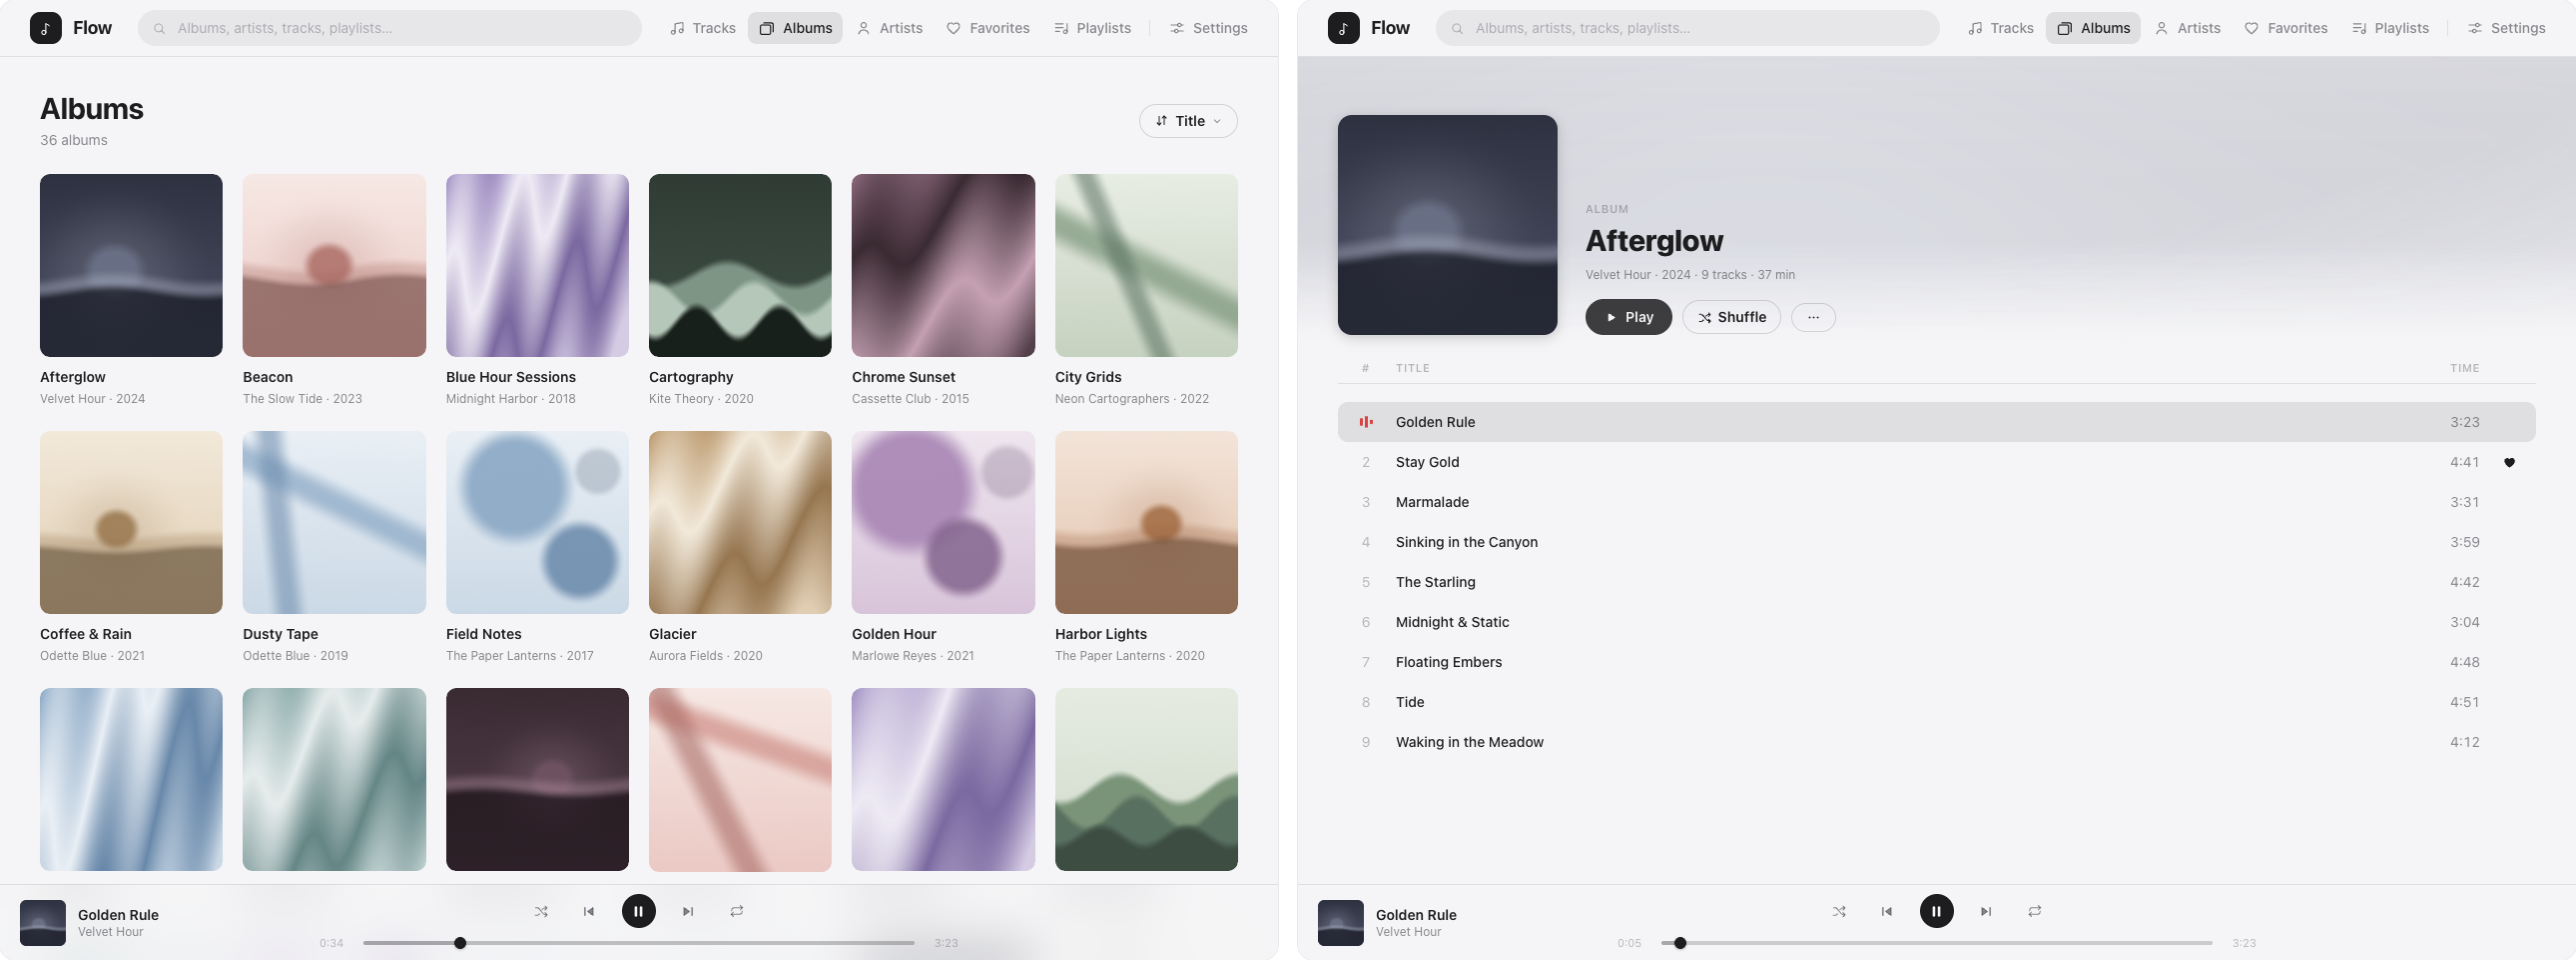
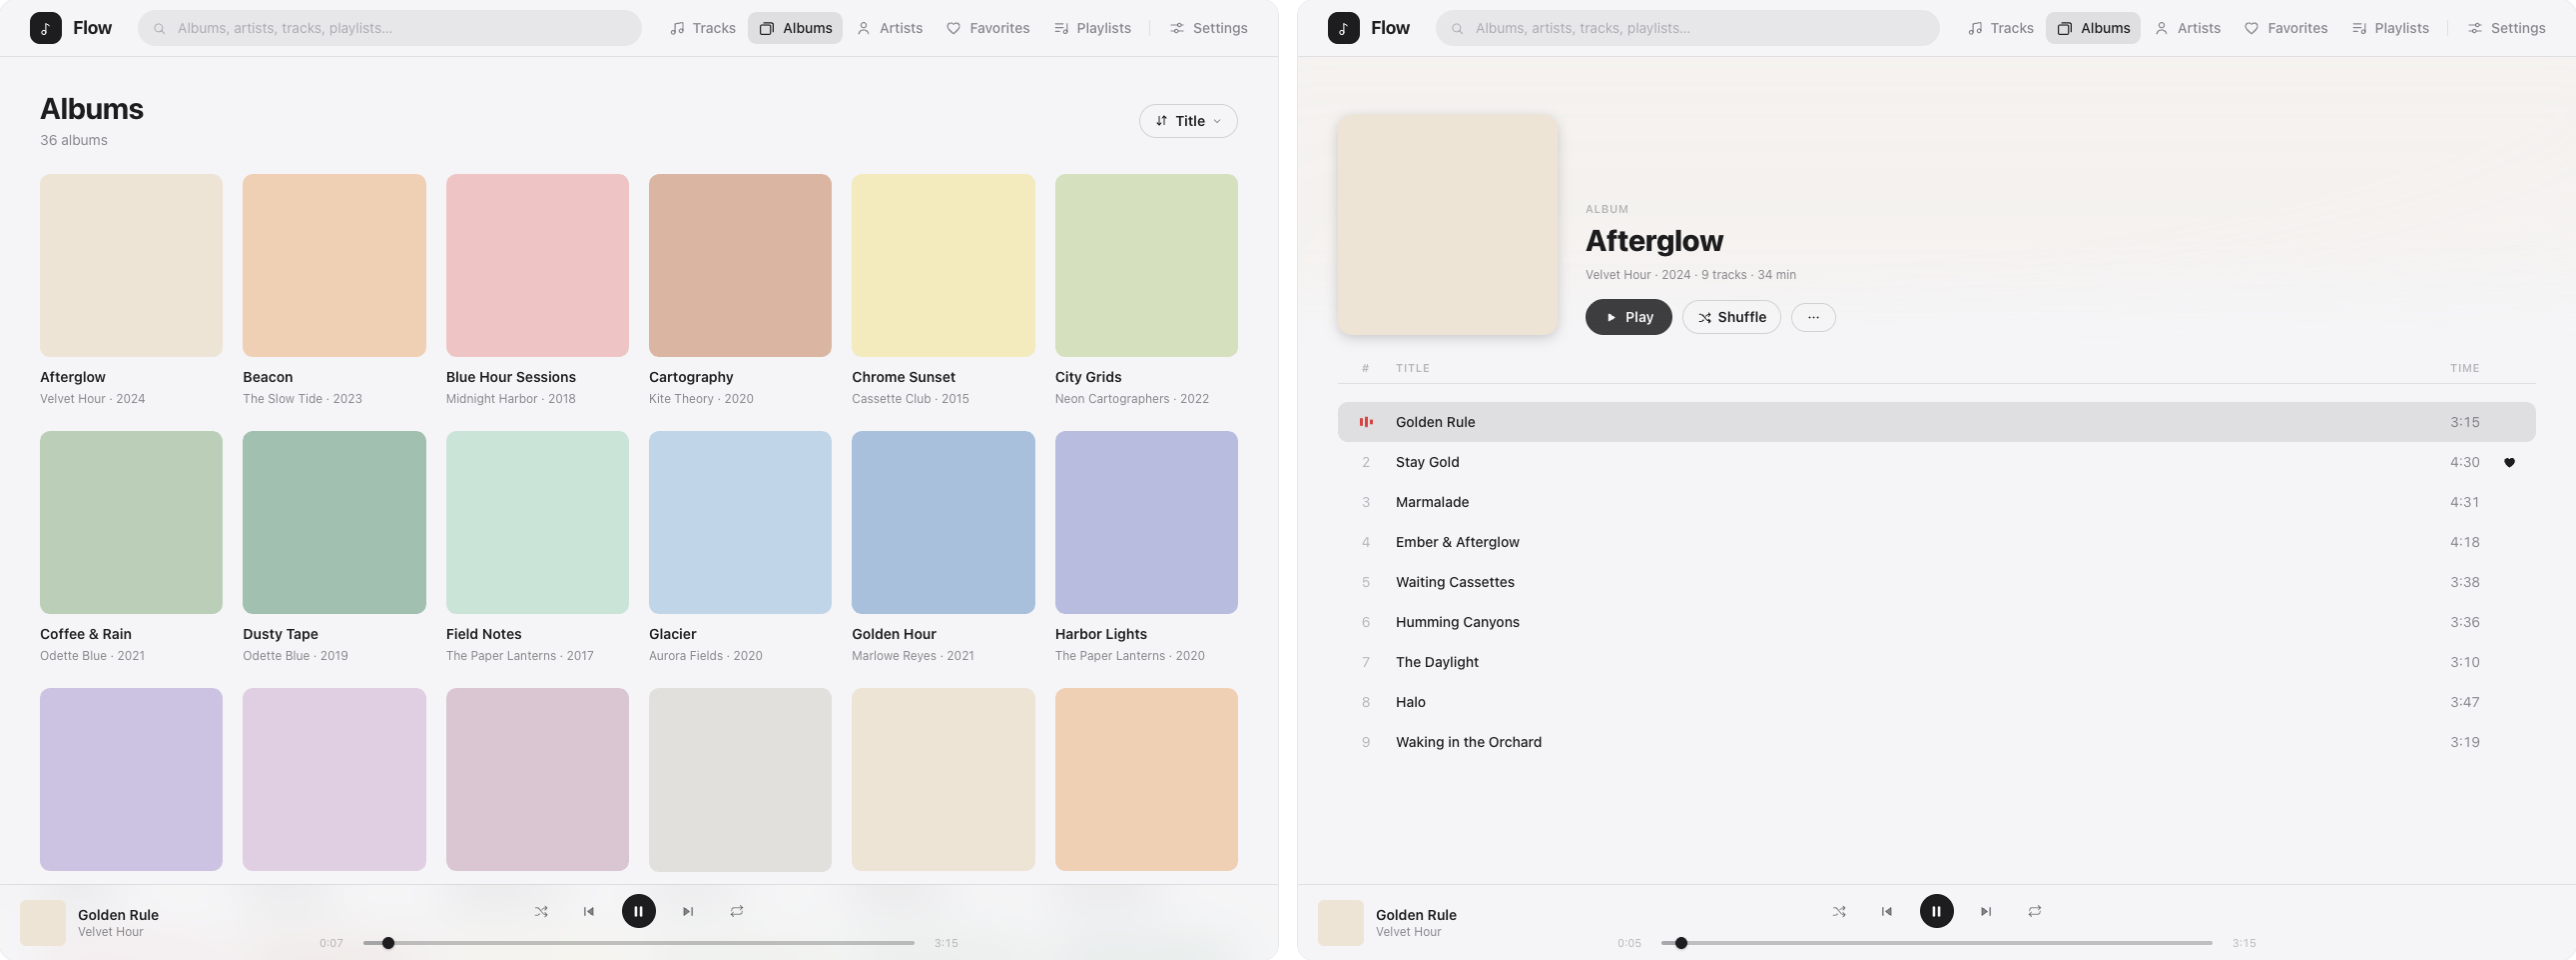
art: solid pastel covers, round-robin over the sorted wall — and a second README composite for playlists + the queue

diff --git a/backend/app/demo.py b/backend/app/demo.py
@@ -4,7 +4,8 @@ Ships in the runtime image so `docker run --rm -e DEMO=true …` boots into a
 lived-in app — no volume, nothing kept. Three pieces:
 
 - `generate_library()` writes the catalog as real (silent) MP3s: plausible
-  artists, albums, tracklists, per-album cover art, realistic durations.
+  artists, albums, tracklists, a solid pastel cover per album, realistic
+  durations.
 - `prepare_library()` / `seed_when_indexed()` are the lifespan hooks: fill an
   empty library, then dress the database (favorites, playlists) once the
   first scan has indexed the files — before the server accepts traffic, so
@@ -16,14 +17,12 @@ lived-in app — no volume, nothing kept. Three pieces:
 from __future__ import annotations
 
 import logging
-import math
 import random
 import struct
 import time
 import zlib
 from datetime import datetime, timezone
 from pathlib import Path
-from typing import Callable, NamedTuple
 
 from mutagen.id3 import APIC, ID3, TALB, TCON, TIT2, TPE1, TPE2, TPOS, TRCK, TYER
 
@@ -156,171 +155,33 @@ def _generated_title(rng: random.Random, used: set[str]) -> str:
     return title
 
 
-# ---- cover art -----------------------------------------------------------------
-# Pure-stdlib PNGs, rendered per-pixel and smoothed by construction: every
-# style is analytic color blending (soft radial falloffs, feathered edges,
-# multi-stop gradients), never hard shapes. Fine deterministic dithering
-# breaks up 8-bit banding on the gradients.
+# ---- covers ----------------------------------------------------------------------
+# One solid pastel per album — nothing else. The discipline is the design: a
+# wall of perfectly flat tiles reads like a curated record shop, the playlist
+# mosaics become quiet color grids, and the derived album-page gradient picks
+# up the exact tile color. The set spans the hue wheel at matched lightness so
+# any two covers sit together; the picker just avoids back-to-back repeats.
 
-class Palette(NamedTuple):
-    top: tuple[int, int, int]
-    bottom: tuple[int, int, int]
-    a: tuple[int, int, int]    # primary accent: glows, hills, the sun
-    b: tuple[int, int, int]    # secondary accent
-    ink: tuple[int, int, int]  # deep tone: front layers, depth
+COVER_COLORS: list[tuple[int, int, int]] = [
+    (238, 228, 214),  # cream
+    (240, 208, 180),  # apricot
+    (238, 196, 196),  # blush
+    (218, 182, 162),  # clay
+    (243, 234, 190),  # butter
+    (212, 224, 190),  # pistachio
+    (186, 206, 184),  # sage
+    (162, 192, 176),  # eucalyptus
+    (202, 228, 216),  # mint
+    (192, 214, 232),  # powder
+    (168, 192, 220),  # sky
+    (184, 188, 222),  # periwinkle
+    (204, 194, 226),  # lavender
+    (224, 206, 226),  # lilac
+    (218, 198, 210),  # mauve
+    (226, 224, 220),  # pearl
+]
 
-
-PALETTES: dict[str, Palette] = {
-    "porcelain": Palette((244, 241, 236), (231, 224, 214), (186, 164, 134), (150, 131, 105), (74, 66, 56)),
-    "sage":      Palette((232, 237, 228), (198, 210, 192), (122, 148, 121), (88, 112, 95), (61, 77, 66)),
-    "blush":     Palette((246, 232, 228), (235, 201, 196), (207, 143, 135), (165, 102, 96), (122, 79, 74)),
-    "powder":    Palette((233, 239, 245), (203, 217, 230), (137, 167, 196), (104, 136, 170), (74, 94, 116)),
-    "sand":      Palette((242, 233, 218), (224, 205, 178), (186, 150, 105), (150, 118, 80), (105, 85, 60)),
-    "mauve":     Palette((239, 230, 239), (216, 196, 218), (168, 133, 180), (132, 100, 142), (96, 74, 104)),
-    "mist":      Palette((230, 236, 236), (201, 216, 216), (134, 166, 166), (101, 134, 134), (74, 94, 94)),
-    "terra":     Palette((243, 228, 217), (226, 195, 172), (196, 139, 95), (158, 101, 65), (110, 74, 50)),
-    "lavender":  Palette((238, 234, 244), (213, 204, 228), (158, 141, 194), (122, 104, 160), (86, 74, 110)),
-    "stone":     Palette((236, 236, 234), (213, 213, 210), (160, 160, 155), (120, 120, 115), (80, 80, 76)),
-    "ink":       Palette((46, 49, 64), (74, 79, 99), (139, 147, 173), (198, 204, 221), (24, 26, 36)),
-    "forest":    Palette((46, 58, 51), (70, 88, 76), (126, 149, 133), (180, 199, 184), (24, 32, 27)),
-    "night":     Palette((35, 39, 51), (58, 66, 88), (107, 126, 168), (168, 184, 220), (16, 18, 26)),
-    "wine":      Palette((58, 42, 50), (84, 64, 75), (143, 107, 126), (196, 160, 178), (30, 20, 26)),
-}
-
-# Styles are paired with palettes that flatter them — washed pastels for the
-# airy styles, the deep tones where a little drama helps.
-STYLE_PALETTES: dict[str, list[str]] = {
-    "haze":  ["porcelain", "sage", "powder", "blush", "ink", "night"],
-    "dawn":  ["sand", "terra", "blush", "mist", "wine", "ink"],
-    "bloom": ["blush", "mauve", "lavender", "sage", "powder", "stone"],
-    "dune":  ["sand", "terra", "forest", "night", "stone", "sage"],
-    "silk":  ["lavender", "powder", "mist", "wine", "ink", "sand"],
-}
-
-def _smooth(t: float) -> float:
-    t = max(0.0, min(1.0, t))
-    return t * t * (3 - 2 * t)
-
-
-def _mix(a: tuple[int, int, int], b: tuple[int, int, int], t: float) -> tuple[float, float, float]:
-    t = max(0.0, min(1.0, t))
-    return (a[0] + (b[0] - a[0]) * t, a[1] + (b[1] - a[1]) * t, a[2] + (b[2] - a[2]) * t)
-
-
-def _stops(stops: list[tuple[int, int, int]], t: float) -> tuple[float, float, float]:
-    """Piecewise-linear gradient through the given colors."""
-    x = max(0.0, min(0.9999, t)) * (len(stops) - 1)
-    i = int(x)
-    return _mix(stops[i], stops[i + 1], x - i)
-
-
-def _style_haze(pal: Palette, rng: random.Random) -> Callable[[float, float], tuple[float, float, float]]:
-    """Light shafts: two crossing diagonal bands of color, heavily feathered."""
-    a1 = rng.uniform(0.25, 0.65)
-    bands = [
-        (rng.uniform(0.2, 0.8), rng.uniform(0.2, 0.5), a1, rng.uniform(0.1, 0.16), pal.a, 0.7),
-        (rng.uniform(0.2, 0.8), rng.uniform(0.5, 0.8), a1 + rng.uniform(0.7, 1.2),
-         rng.uniform(0.08, 0.14), pal.b, 0.55),
-    ]
-
-    def px(u: float, v: float) -> tuple[float, float, float]:
-        col = _mix(pal.top, pal.bottom, v)
-        for cx, cy, ang, w, c, s in bands:
-            d = abs((u - cx) * -math.sin(ang) + (v - cy) * math.cos(ang))
-            col = _mix(col, c, _smooth((w - d) / (w * 0.9)) * s)
-        return col
-
-    return px
-
-
-def _style_dawn(pal: Palette, rng: random.Random) -> Callable[[float, float], tuple[float, float, float]]:
-    """First light: a feathered sun setting into a dark, gently curved horizon."""
-    hx, hy = rng.uniform(0.38, 0.62), rng.uniform(0.46, 0.54)
-    r = rng.uniform(0.14, 0.19)
-    hz = hy + r * rng.uniform(0.25, 0.55)  # the horizon cuts the sun
-    curve, cph = rng.uniform(0.015, 0.03), rng.uniform(0, 6.28)
-    disc = _mix(pal.a, pal.ink, 0.3)       # a touch deeper than the sky glow
-
-    def px(u: float, v: float) -> tuple[float, float, float]:
-        col = _mix(pal.top, pal.bottom, v)
-        d = math.hypot(u - hx, (v - hy) * 1.1)
-        col = _mix(col, pal.b, _smooth((r * 3 - d) / (r * 3)) * 0.2)  # halo
-        col = _mix(col, disc, _smooth((r - d) / (r * 0.45)))          # soft disc
-        ground = hz + curve * math.sin(u * 6.28 + cph)
-        col = _mix(col, pal.ink, _smooth((v - ground) / 0.06) * 0.72)
-        afterglow = abs(v - ground)  # a warm band hugging the horizon line
-        col = _mix(col, pal.b, _smooth((0.07 - afterglow) / 0.07) * 0.3)
-        return col
-
-    return px
-
-
-def _style_bloom(pal: Palette, rng: random.Random) -> Callable[[float, float], tuple[float, float, float]]:
-    """Watercolor: one large bloom, a smaller answer, a deep accent note."""
-    cx, cy = rng.uniform(0.25, 0.42), rng.uniform(0.25, 0.42)
-    blobs = [
-        (cx, cy, rng.uniform(0.3, 0.42), pal.a, 0.9),
-        (rng.uniform(0.55, 0.75), rng.uniform(0.55, 0.75), rng.uniform(0.18, 0.28), pal.b, 0.85),
-        (rng.uniform(0.6, 0.85), rng.uniform(0.15, 0.35), rng.uniform(0.12, 0.2), pal.ink, 0.25),
-    ]
-
-    def px(u: float, v: float) -> tuple[float, float, float]:
-        col = _mix(pal.top, pal.bottom, v)
-        for bx, by, r, c, s in blobs:
-            d = math.hypot(u - bx, v - by)
-            col = _mix(col, c, _smooth((r - d) / (r * 0.35)) * s)
-        return col
-
-    return px
-
-
-def _style_dune(pal: Palette, rng: random.Random) -> Callable[[float, float], tuple[float, float, float]]:
-    """Layered hills at dusk: long sine silhouettes, nearer means darker."""
-    layers = []
-    for i, c in enumerate((pal.a, pal.b, pal.ink)):
-        layers.append((
-            0.52 + i * 0.13,            # crest height per layer
-            rng.uniform(0.04, 0.09),    # amplitude
-            rng.uniform(0.9, 1.6) + i * 0.5,
-            rng.uniform(0, 6.28),
-            c,
-        ))
-
-    def px(u: float, v: float) -> tuple[float, float, float]:
-        col = _mix(pal.top, pal.bottom, v * 0.7 + 0.05)
-        for base, amp, freq, ph, c in layers:
-            y = base + amp * math.sin(u * freq * 6.28 + ph)
-            col = _mix(col, c, _smooth((v - y) / 0.06))  # cover below the crest
-        return col
-
-    return px
-
-
-def _style_silk(pal: Palette, rng: random.Random) -> Callable[[float, float], tuple[float, float, float]]:
-    """Light on silk: a multi-stop gradient folded along a soft diagonal."""
-    theta = rng.uniform(0.45, 1.0)
-    warp, wf = rng.uniform(0.06, 0.12), rng.uniform(1.8, 3.0)
-    stops = [pal.a, pal.top, pal.b, pal.bottom]
-    cos_t, sin_t = math.cos(theta), math.sin(theta)
-
-    def px(u: float, v: float) -> tuple[float, float, float]:
-        t = (u * cos_t + v * sin_t) / (cos_t + sin_t)  # corners span 0..1, no seam
-        t += warp * math.sin(u * wf * 6.28 + v * 2.2)
-        return _stops(stops, t)
-
-    return px
-
-
-STYLES: dict[str, Callable[[Palette, random.Random], Callable[[float, float], tuple[float, float, float]]]] = {
-    "haze": _style_haze,
-    "dawn": _style_dawn,
-    "bloom": _style_bloom,
-    "dune": _style_dune,
-    "silk": _style_silk,
-}
-
-_RENDER = 256  # rendered small, upscaled ×2 below
-_COVER = 512
+_RENDER = 512
 
 
 def _png(width: int, height: int, raw: bytes) -> bytes:
@@ -338,30 +199,10 @@ def _png(width: int, height: int, raw: bytes) -> bytes:
     )
 
 
-def render_cover(style_name: str, palette_name: str, rng: random.Random) -> bytes:
-    px = STYLES[style_name](PALETTES[palette_name], rng)
-    rows = []
-    for y in range(_RENDER):
-        v = y / (_RENDER - 1)
-        row = bytearray()
-        for x in range(_RENDER):
-            c = px(x / (_RENDER - 1), v)
-            # deterministic ±0.5 dither: breaks gradient banding, keeps PNGs sane
-            d = ((((x * 73856093) ^ (y * 19349663)) & 255) / 255.0) - 0.5
-            row.extend((
-                max(0, min(255, round(c[0] + d))),
-                max(0, min(255, round(c[1] + d))),
-                max(0, min(255, round(c[2] + d))),
-            ))
-        big = bytearray()
-        for i in range(0, len(row), 3):
-            big += row[i:i + 3] * 2  # nearest-neighbour upscale
-        rows.append(big)
-    raw = bytearray()
-    for r in rows:
-        raw += b"\x00" + bytes(r)
-        raw += b"\x00" + bytes(r)
-    return _png(_COVER, _COVER, bytes(raw))
+def render_cover(color: tuple[int, int, int]) -> bytes:
+    """A perfectly flat tile: one solid color, edge to edge."""
+    row = bytes(color) * _RENDER
+    return _png(_RENDER, _RENDER, (b"\x00" + row) * _RENDER)
 
 
 # ---- audio writer ---------------------------------------------------------------
@@ -418,10 +259,17 @@ def generate_library(music_dir: Path, albums_limit: int | None = None) -> int:
     """Write the catalog into `music_dir`; returns the expected track count."""
     rng = random.Random(1403)  # fixed seed: every demo boots the same library
     used: set[str] = set()
-    last_style = last_palette = ""
     tracks = 0
 
     catalog = CATALOG if albums_limit is None else _first_albums(albums_limit)
+    # Round-robin over the title-sorted wall: the default Albums view reads as
+    # a deliberate hue sweep, and color repeats land 16 titles apart.
+    wall = sorted(
+        ((artist, album[0]) for artist, _, albums in catalog for album in albums),
+        key=lambda pair: pair[1].lower(),
+    )
+    color_of = {pair: COVER_COLORS[i % len(COVER_COLORS)] for i, pair in enumerate(wall)}
+
     for artist, genre, albums_spec in catalog:
         for album, year, n_tracks, anchors in albums_spec:
             used.update(anchors)
@@ -429,10 +277,7 @@ def generate_library(music_dir: Path, albums_limit: int | None = None) -> int:
             while len(titles) < n_tracks:
                 titles.append(_generated_title(rng, used))
 
-            style = rng.choice([s for s in STYLE_PALETTES if s != last_style])
-            palette = rng.choice([p for p in STYLE_PALETTES[style] if p != last_palette])
-            last_style, last_palette = style, palette
-            cover = render_cover(style, palette, rng)
+            cover = render_cover(color_of[(artist, album)])
 
             album_dir = music_dir / _safe_name(artist) / f"{year} - {_safe_name(album)}"
             for t, title in enumerate(titles):

diff --git a/README.md b/README.md
@@ -24,6 +24,11 @@
   <img src="assets/app-light.png" alt="Flow — the albums grid and an album playing, in light and dark" width="100%">
 </picture>
 
+<picture>
+  <source media="(prefers-color-scheme: dark)" srcset="assets/app-2-dark.png">
+  <img src="assets/app-2-light.png" alt="Flow — playlists and the play queue, in light and dark" width="100%">
+</picture>
+
 </div>
 
 ## What it does
@@ -39,8 +44,8 @@ Flow turns a folder of music files into a clean, fast web player — albums, art
 <summary>More screenshots</summary>
 
 <p>
-  <img src="assets/home-light.png" alt="Home — recently added albums" width="49%">
-  <img src="assets/playlists-light.png" alt="Playlists" width="49%">
+  <img src="assets/home-light.png" alt="Home — recently added albums and continue listening" width="49%">
+  <img src="assets/favorites-light.png" alt="Favorites" width="49%">
   <img src="assets/artist-light.png" alt="An artist page with albums and songs" width="49%">
   <img src="assets/search-light.png" alt="Instant search" width="49%">
 </p>
